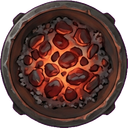
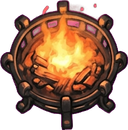
chore(loom): the art spike's three-quarter view (spike branch only, not to merge)
The painter's `view: 'oblique'` option: walls drawn with a front face
rising up the screen and their top on it (angled walls slanted), closed
doors and windows as upright panels, and walls, doors and objects in one
layer ordered by how far down the screen they stand; objects stand on
their footprint's south edge, as tall as their picture. 18 props made in
a three-quarter style (all usable first time) and stone and brick wall
faces, for comparing with the top-down set.

Claude-Session: https://claude.ai/code/session_01YDEMp2FHoLLEHCCEZTwxAU

diff --git a/public/apps/loom/js/paint.js b/public/apps/loom/js/paint.js
@@ -58,6 +58,11 @@
   var STEP_UP = 2.5; // a ledge: more than this between two floors (DA2)
   var OPEN_SWING = (75 * Math.PI) / 180; // an open door's swing
   var LOCKED = 0xff9e9e;
+  // The three-quarter view (art spike, spike branch only): a foot of height
+  // rises this far up the screen, and a wall with no height of its own is
+  // this tall.
+  var OBLIQUE = 0.6;
+  var WALL_FT = 8;
   var LIGHT_RGB = '255,214,150';
   var COLOURS = { door: 0xffb74d, doorLocked: 0xe57373, dark: 0x05070d, ledge: 0x05070d };
 
@@ -195,6 +200,30 @@
     return s;
   }
 
+  // Three-quarter view: a wall's (or a closed door's) front face, a picture
+  // repeating along the segment and standing `h` up the screen from its foot,
+  // the south edge of the wall's thickness.
+  function face(texture, a, b, h, thick, stretch) {
+    var PIXI = window.PIXI;
+    var dx = b.x - a.x;
+    var dy = b.y - a.y;
+    var len = Math.sqrt(dx * dx + dy * dy);
+    if (!len || Math.abs(dx) < 1e-6) return null; // a north-south wall shows only its top
+    var s = new PIXI.TilingSprite({ texture: texture, width: len, height: h });
+    var ux = dx / len;
+    var uy = dy / len;
+    s.setFromMatrix(new PIXI.Matrix(ux, uy, 0, 1, a.x, a.y + thick / 2 - h));
+    var th = texture.height || 64;
+    var tw = texture.width || 64;
+    s.tileScale.set(stretch ? len / tw : h / th, h / th);
+    s.tint = 0xdedede;
+    return s;
+  }
+
+  function lifted(p, h) {
+    return { x: p.x, y: p.y - h };
+  }
+
   function segmentsOf(points) {
     var out = [];
     for (var i = 1; i < points.length; i++) out.push([pt(points[i - 1]), pt(points[i])]);
@@ -299,6 +328,37 @@
       list('walls').forEach(function (item, i) {
         var url = materialUrl('wall', item.material);
         var edges = byWall[item.id] || [];
+        if (o.view === 'oblique') {
+          var faceUrl = mat.artUrl('materials/wall-' + item.material + '-face.png');
+          var h =
+            (typeof item.height === 'number' && item.height > 0 ? item.height : WALL_FT) * OBLIQUE;
+          edges.forEach(function (e, k) {
+            var a = pt(e.a);
+            var b = pt(e.b);
+            var foot = Math.max(a.y, b.y) + thick / 2;
+            add(
+              'objects',
+              'wall',
+              { id: item.id + ':' + k, e: e, m: item.material },
+              Math.round(foot * 100),
+              [url, faceUrl],
+              function () {
+                var c = new PIXI.Container();
+                var top = loaded(url);
+                var front = loaded(faceUrl) || top;
+                var f = front ? face(front, a, b, h, thick, false) : null;
+                if (f) {
+                  if (!loaded(faceUrl)) f.tint = 0x9a9a9a;
+                  c.addChild(f);
+                }
+                var t = top ? strip(top, lifted(a, h), lifted(b, h), thick, false, true) : null;
+                if (t) c.addChild(t);
+                return c;
+              }
+            );
+          });
+          return;
+        }
         add('walls', 'wall', item, i, [url], function () {
           var c = new PIXI.Container();
           var texture = loaded(url);
@@ -324,40 +384,72 @@
 
     list('doors').forEach(function (item, i) {
       var url = o.art ? null : materialUrl('door', item.material);
-      add('openings', 'door', item, i + 1000, [url], function () {
-        var a = pt(item.from);
-        var b = pt(item.to);
-        if (!a || !b) return new PIXI.Container();
-        var state = item.state || 'closed';
-        if (o.art) return doorLine(a, b, state, thick);
-        var texture = loaded(url);
-        if (!texture) return doorLine(a, b, state, thick);
-        if (state === 'open') {
-          // Swung on its hinge, `from`.
-          var len = Math.hypot(b.x - a.x, b.y - a.y);
-          var angle = Math.atan2(b.y - a.y, b.x - a.x) + OPEN_SWING;
-          var swung = { x: a.x + Math.cos(angle) * len, y: a.y + Math.sin(angle) * len };
-          var leaf = strip(texture, a, swung, thick * 0.6, true, false);
-          leaf.alpha = 0.9;
-          return leaf;
+      var doorFoot =
+        o.view === 'oblique' && item.from && item.to
+          ? Math.max(pt(item.from).y, pt(item.to).y) + thick / 2
+          : null;
+      add(
+        doorFoot === null ? 'openings' : 'objects',
+        'door',
+        item,
+        doorFoot === null ? i + 1000 : Math.round(doorFoot * 100) + 1,
+        [url],
+        function () {
+          var a = pt(item.from);
+          var b = pt(item.to);
+          if (!a || !b) return new PIXI.Container();
+          var state = item.state || 'closed';
+          if (o.art) return doorLine(a, b, state, thick);
+          var texture = loaded(url);
+          if (!texture) return doorLine(a, b, state, thick);
+          if (state === 'open') {
+            // Swung on its hinge, `from`.
+            var len = Math.hypot(b.x - a.x, b.y - a.y);
+            var angle = Math.atan2(b.y - a.y, b.x - a.x) + OPEN_SWING;
+            var swung = { x: a.x + Math.cos(angle) * len, y: a.y + Math.sin(angle) * len };
+            var leaf = strip(texture, a, swung, thick * 0.6, true, false);
+            leaf.alpha = 0.9;
+            return leaf;
+          }
+          if (o.view === 'oblique') {
+            var dh = WALL_FT * OBLIQUE * 0.85;
+            var df = face(texture, a, b, dh, thick, true);
+            if (df) {
+              if (state === 'locked') df.tint = LOCKED;
+              return df;
+            }
+          }
+          var shut = strip(texture, a, b, thick, true, false);
+          if (state === 'locked') shut.tint = LOCKED;
+          return shut;
         }
-        var shut = strip(texture, a, b, thick, true, false);
-        if (state === 'locked') shut.tint = LOCKED;
-        return shut;
-      });
+      );
     });
 
     list('objects').forEach(function (item, i) {
       var url = objectUrl(item, o.worldKinds);
-      add('objects', 'object', item, i, [url, mat.artUrl(mat.FALLBACK_ART)], function () {
-        var at = pt(item.at);
-        var size = Array.isArray(item.size)
-          ? item.size
-          : typeof item.size === 'number'
-            ? [item.size, item.size]
-            : mat.sizeFor(item.kind, o.worldKinds) || [tile, tile];
+      var objSize = Array.isArray(item.size)
+        ? item.size
+        : typeof item.size === 'number'
+          ? [item.size, item.size]
+          : mat.sizeFor(item.kind, o.worldKinds) || [tile, tile];
+      var objAt = pt(item.at);
+      var objOrder =
+        o.view === 'oblique' && objAt ? Math.round((objAt.y + objSize[1] / 2) * 100) + 2 : i;
+      add('objects', 'object', item, objOrder, [url, mat.artUrl(mat.FALLBACK_ART)], function () {
+        var at = objAt;
+        var size = objSize;
         var texture = loaded(url) || loaded(mat.artUrl(mat.FALLBACK_ART));
         if (!at || !texture) return new PIXI.Container();
+        if (o.view === 'oblique') {
+          // Standing on the south edge of its footprint, as tall as its picture.
+          var up = new PIXI.Sprite(texture);
+          up.anchor.set(0.5, 1);
+          up.position.set(at.x, at.y + size[1] / 2);
+          up.width = size[0];
+          up.height = (size[0] * (texture.height || 1)) / (texture.width || 1);
+          return up;
+        }
         var s = new PIXI.Sprite(texture);
         s.anchor.set(0.5);
         s.position.set(at.x, at.y);

diff --git a/functions/loom-canon/materials.js b/functions/loom-canon/materials.js
@@ -67,6 +67,11 @@
     'objects/chair': 1,
     'objects/wardrobe': 1,
     'objects/bench': 1,
+    'objects/bookshelf': 1,
+    'objects/altar': 1,
+    'objects/anvil': 1,
+    'objects/well': 1,
+    'objects/lever': 1,
   };
 
   function artFile(base) {

diff --git a/public/apps/loom/js/materials.js b/public/apps/loom/js/materials.js
@@ -67,6 +67,11 @@
     'objects/chair': 1,
     'objects/wardrobe': 1,
     'objects/bench': 1,
+    'objects/bookshelf': 1,
+    'objects/altar': 1,
+    'objects/anvil': 1,
+    'objects/well': 1,
+    'objects/lever': 1,
   };
 
   function artFile(base) {
